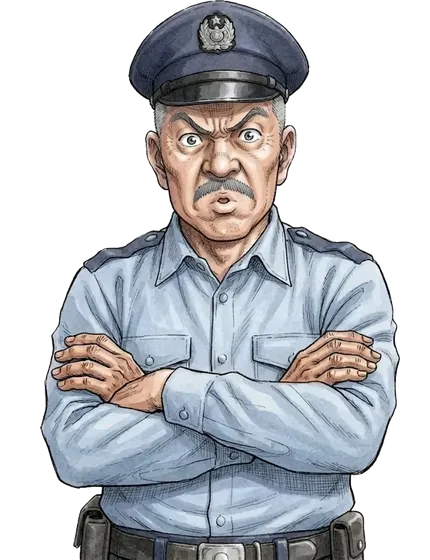
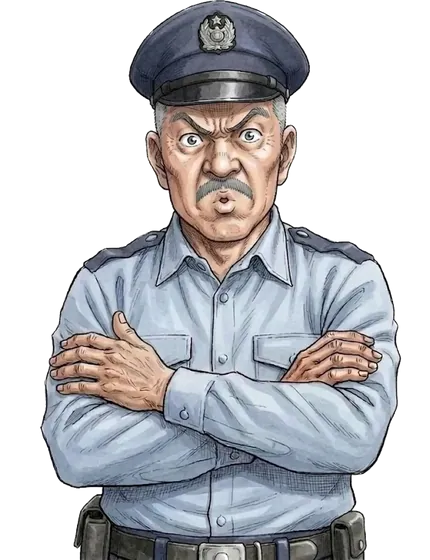
Richang_v0.1 portrait update

diff --git a/Version/0.1.0.md b/Version/0.1.0.md
@@ -342,10 +342,10 @@
   - **Compilation sur un Mac** : `scripts/ios/build_ios.sh`, lancé depuis un clone du dépôt public (`git clone https://github.com/Bannl/Richang.git`).
     - Il installe ce qui manque, sans droits administrateur : Node dans `~/.richang-node`, CocoaPods dans `~/.richang-gems`. CocoaPods s'installe avec le Ruby de macOS : pour chaque dépendance trop récente, le script prend la dernière version compatible que `gem` indique.
     - Il installe ensuite les dépendances npm, lance `npm run ios:sync` (nouveau script : compilation web et `cap sync ios`), puis `pod install`.
-    - Mode `sim` : simulateurs iPhone Pro Max et iPad Pro 13", captures remises en paysage.
-    - Modes `ipa` et `upload` : archive non signée, export App Store qui signe en distribution, puis envoi par `altool` pour `upload`.
+    - Mode `sim` : compile et lance l'app sur un iPhone Pro Max et un iPad Pro 13" simulés.
+    - Modes `ipa` et `upload` : archive non signée, export App Store qui signe en distribution, puis, pour `upload`, envoi par Xcode avec le compte Apple connecté dans Xcode.
     - Mode `clean` : libère de la place sur le disque du Mac.
-    - L'identifiant d'équipe Apple est demandé une fois et gardé sur le Mac, hors du dépôt. L'Apple ID et le mot de passe d'application sont demandés à l'envoi et jamais écrits.
+    - L'identifiant d'équipe Apple est demandé une fois et gardé sur le Mac, hors du dépôt. Aucun mot de passe n'est demandé.
     - `.gitattributes` : les scripts shell gardent des fins de ligne Unix.
   - Vérifié sur le PC :
     - typage et compilation web ;
@@ -364,9 +364,20 @@
   - Sur iOS, les dossiers `Data` et `Documents` de Capacitor sont tous deux le dossier Documents de l'app. Ce dossier est visible dans l'app Fichiers depuis l'activation du partage. La partie en cours n'y est plus, et ne peut donc plus être effacée par erreur.
   - Les exports restent dans Documents.
   - Android ne change pas.
-- Added (en préparation, pour les captures de l'App Store) : **mode captures** `src/shots.ts`.
-  - Il n'existe que dans une compilation spéciale (`VITE_SHOTS=1`) : la compilation normale ne le contient pas.
-  - Il prépare des parties de démonstration avec les vraies fonctions du jeu : combat au marché de nuit avec une carte déjà posée, carte d'un run avancé, apprentissage, camp, deck de 120 cartes dont 40 maîtrisées.
-  - L'écran se demande par un fichier `shot.json` dans le dossier Documents de l'app sur le simulateur, ou par `?shot=` dans un navigateur.
-  - Rien n'est sauvegardé dans ce mode.
-  - Reste à écrire : le mode `shots` de `scripts/ios/build_ios.sh` (captures iPhone 6,9" 2868×1320 et iPad 13" 2752×2064, plus les formats redimensionnés 6,7", 6,5" et 12,9").
+- Fixed (premier essai sur le Mac : « Auth error… use an app-specific password » de `altool`, erreur 1235) : **envoi vers App Store Connect par Xcode**.
+  - L'archive et l'export avaient réussi ; seule la connexion d'`altool` avec l'Apple ID et le mot de passe d'application était refusée.
+  - `build_ios.sh upload` exporte maintenant avec `destination: upload` : Xcode envoie le build avec le compte Apple déjà connecté dans Xcode, celui qui signe l'export. Plus aucun identifiant n'est demandé ni tapé.
+  - `manageAppVersionAndBuildNumber: false` garde le numéro de build de l'archive.
+- Changed (demande utilisateur : « on abandonne la version iOS pour l'instant, on verra plus tard ») : **version iOS mise en pause**.
+  - État : le projet Xcode est prêt. Il a été compilé sur un Mac jusqu'à l'export App Store (archive et `.ipa`).
+  - Le premier envoi par `altool` a été refusé à la connexion. Le mode `upload` passe maintenant par Xcode, mais n'a pas encore été essayé.
+  - À la reprise : créer la fiche App Store Connect, faire le premier envoi, tester sur iPhone par TestFlight ; pour une publication, faire les captures de l'App Store. Le pas à pas est dans la section iOS de `DEVELOPMENT.md`.
+  - Le code iOS reste dans le dépôt. Il ne change rien à Android, Windows ni au web, à part le libellé « Voix de l'appareil » dans les Réglages.
+
+### 2026-11-16
+- Fixed (signalé par l'utilisateur : « un gardien avec les bras croisés qui avait une main supplémentaire ») : **bras croisés corrigés sur 5 portraits**.
+  - Portraits corrigés : le gardien de l'immeuble (neutre, joyeux, curieux), le propriétaire (neutre) et le vendeur du marché de nuit (neutre).
+  - Le défaut était le même partout : deux mains posées sur les bras, mais l'avant-bras du dessous filait jusqu'au bord sans rejoindre sa main. Une des mains n'était donc reliée à rien.
+  - Chaque image a été retouchée à partir d'elle-même : seuls les bras changent, le visage, la tenue et le cadrage restent identiques.
+  - Le gardien garde les deux mains visibles, sur le modèle de la retouche validée par l'utilisateur. Le propriétaire et le vendeur ont une main visible, l'autre rentrée sous le bras.
+  - Les autres expressions ne changent pas.

diff --git a/DEVELOPMENT.md b/DEVELOPMENT.md
@@ -89,19 +89,31 @@ Construire et installer : `npx vite build && npx cap sync android && node script
 
 ## iOS
 
+**Statut (14 novembre 2026) : en pause.** Le projet iOS est prêt, et il a été compilé sur un Mac jusqu'à l'export App Store (`.ipa`). Les étapes avant l'export fonctionnent toutes :
+- installation automatique de Node et de CocoaPods ;
+- dépendances npm et compilation du jeu ;
+- `pod install` ;
+- archive.
+
+À la reprise :
+- premier envoi sur App Store Connect. Le premier essai par `altool` a été refusé à la connexion ; le mode `upload` passe maintenant par Xcode, mais n'a pas encore été essayé ;
+- fiche de l'app dans App Store Connect ;
+- test sur iPhone par TestFlight ;
+- pour une publication, captures de l'App Store.
+
 Même projet web, dans un projet Xcode Capacitor (`ios/App`, CocoaPods, iPhone et iPad, iOS 15 minimum), identifiant `app.richang.mobile` comme sur Android. L'app tourne en **paysage** (plein écran sur iPad, barre d'état masquée) ; les marges de l'encoche et de la barre d'accueil sont prises en compte en CSS (`env(safe-area-inset-*)`). Le son joue même en mode silencieux, sans couper la musique d'une autre app (`AppDelegate.swift`, et `navigator.audioSession` dans `src/platform/voices.ts`). Les sauvegardes exportées vont dans l'app Fichiers (Sur mon iPhone › 日常). Les voix doublées (Ogg Opus) demandent iOS 18.4 ou plus ; avant, la synthèse vocale prend le relais.
 
 Compilation sur un Mac avec Xcode, en ligne de commande, depuis un clone du dépôt :
 
 ```bash
 git clone https://github.com/Bannl/Richang.git ~/Richang     # ensuite : git -C ~/Richang pull
-bash ~/Richang/scripts/ios/build_ios.sh sim       # simulateurs iPhone et iPad, captures dans ~/Richang_shots
+bash ~/Richang/scripts/ios/build_ios.sh sim       # compile et lance l'app sur un iPhone et un iPad simulés
 bash ~/Richang/scripts/ios/build_ios.sh ipa       # archive + export App Store -> ~/Richang_ipa/App.ipa
 bash ~/Richang/scripts/ios/build_ios.sh upload    # idem, puis envoi sur App Store Connect (TestFlight)
 bash ~/Richang/scripts/ios/build_ios.sh clean     # libère de la place
 ```
 
-Le script prépare tout, sans droits administrateur : Node (dans `~/.richang-node` s'il manque), les dépendances npm, CocoaPods (dans `~/.richang-gems`), puis `npm run ios:sync` et `pod install`. L'archive est faite sans signature ; l'export App Store la signe en distribution et crée le profil. L'identifiant d'équipe Apple est demandé une fois et gardé sur le Mac (`~/.richang-ios.env`), jamais dans le dépôt ; l'Apple ID et le mot de passe d'application sont demandés à chaque envoi et jamais écrits. Numéro de build : `AAMMJJ.HHMM` par défaut, ou en deuxième argument.
+Le script prépare tout, sans droits administrateur : Node (dans `~/.richang-node` s'il manque), les dépendances npm, CocoaPods (dans `~/.richang-gems`), puis `npm run ios:sync` et `pod install`. L'archive est faite sans signature ; l'export App Store la signe en distribution et crée le profil. L'identifiant d'équipe Apple est demandé une fois et gardé sur le Mac (`~/.richang-ios.env`), jamais dans le dépôt. L'envoi (`upload`) passe par Xcode, avec le compte Apple connecté dans Xcode (Réglages › Comptes) : aucun mot de passe n'est demandé. Numéro de build : `AAMMJJ.HHMM` par défaut, ou en deuxième argument.
 
 **Tester sur un iPhone ou un iPad, sans publier : TestFlight.** Sur iOS, il n'y a pas d'installateur à copier sur l'appareil comme l'APK Android. L'`.ipa` du mode `ipa` est signé pour l'App Store et ne s'installe que par TestFlight ou l'App Store. Sans câble vers le Mac, TestFlight est le moyen simple.
 1. Sur le Mac : `build_ios.sh ipa`. L'export enregistre l'identifiant `app.richang.mobile` dans l'équipe.
@@ -120,8 +132,6 @@ Le script prépare tout, sans droits administrateur : Node (dans `~/.richang-nod
    - le test interne ne passe pas par la validation d'Apple.
 5. Sur l'iPhone : installer l'app TestFlight (App Store), se connecter avec le même Apple ID, puis installer Rìcháng. Un build reste installable 90 jours.
 
-L'App Store, plus tard, demandera :
-- la politique de confidentialité, <https://github.com/Bannl/Richang/blob/master/PRIVACY.md> (aussi liée dans les Réglages de l'app) ;
-- des captures en paysage : iPhone 6,9" 2868×1320, iPad 13" 2752×2064.
+Pour l'App Store, plus tard, la politique de confidentialité est <https://github.com/Bannl/Richang/blob/master/PRIVACY.md> (aussi liée dans les Réglages de l'app).
 
 Les réglages natifs (Info.plist, AppDelegate, icônes générées depuis `assets/icon-only.png`, version) vivent dans `ios/` et ne sont pas écrasés par `cap sync`.
